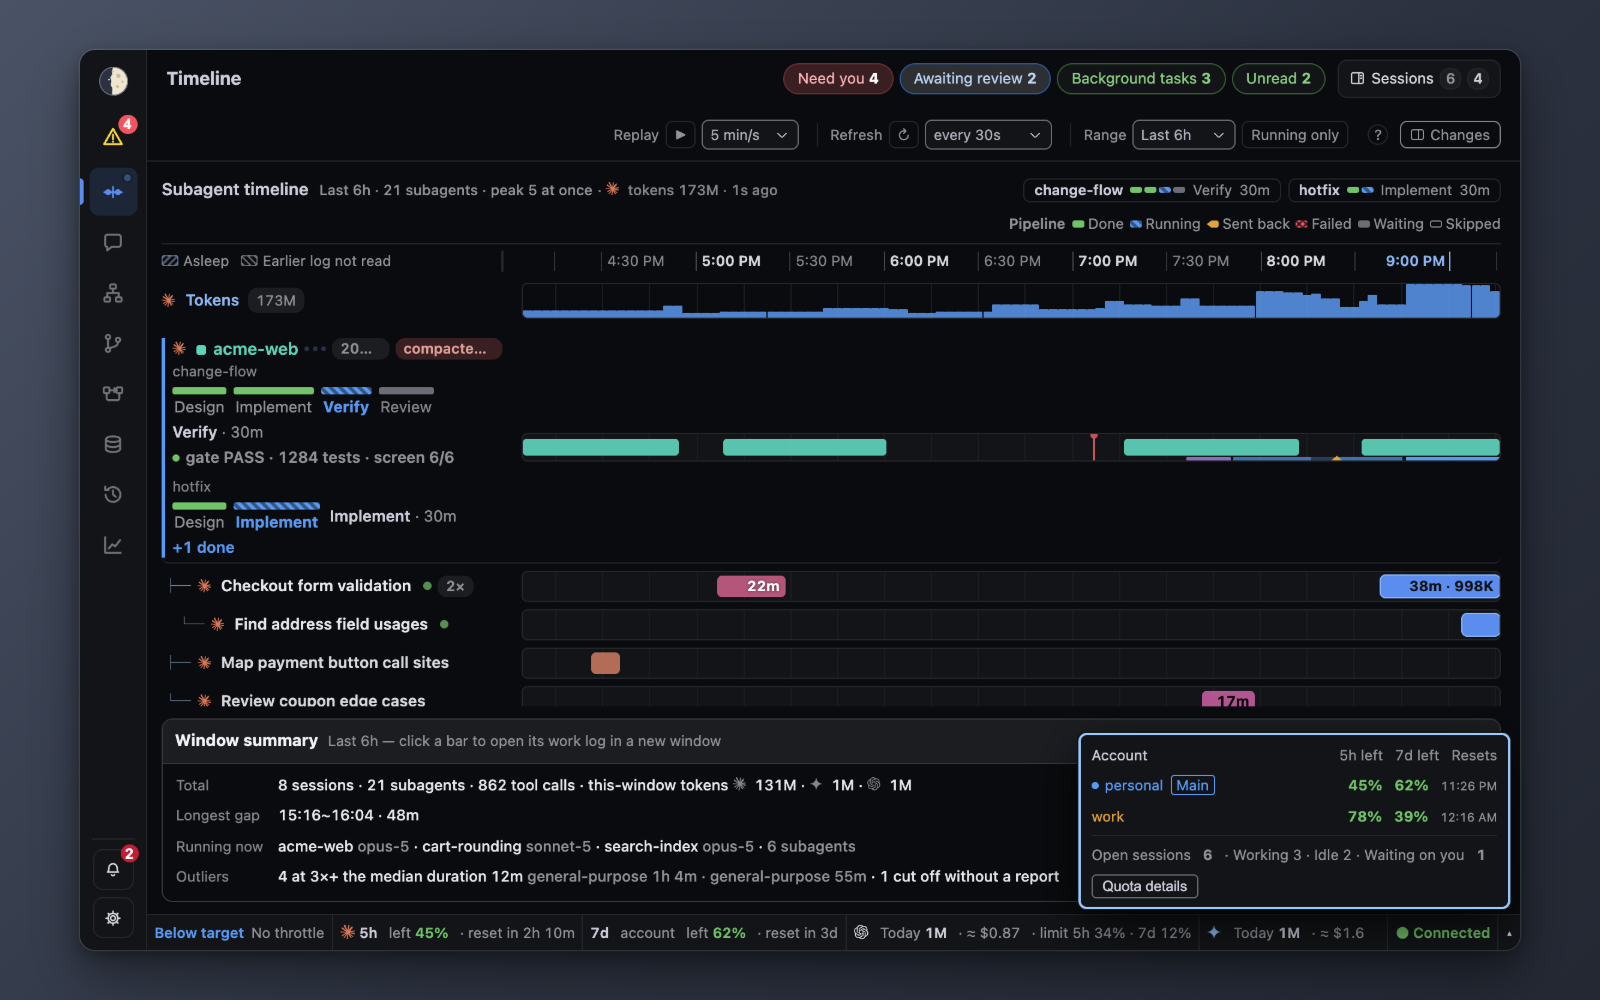
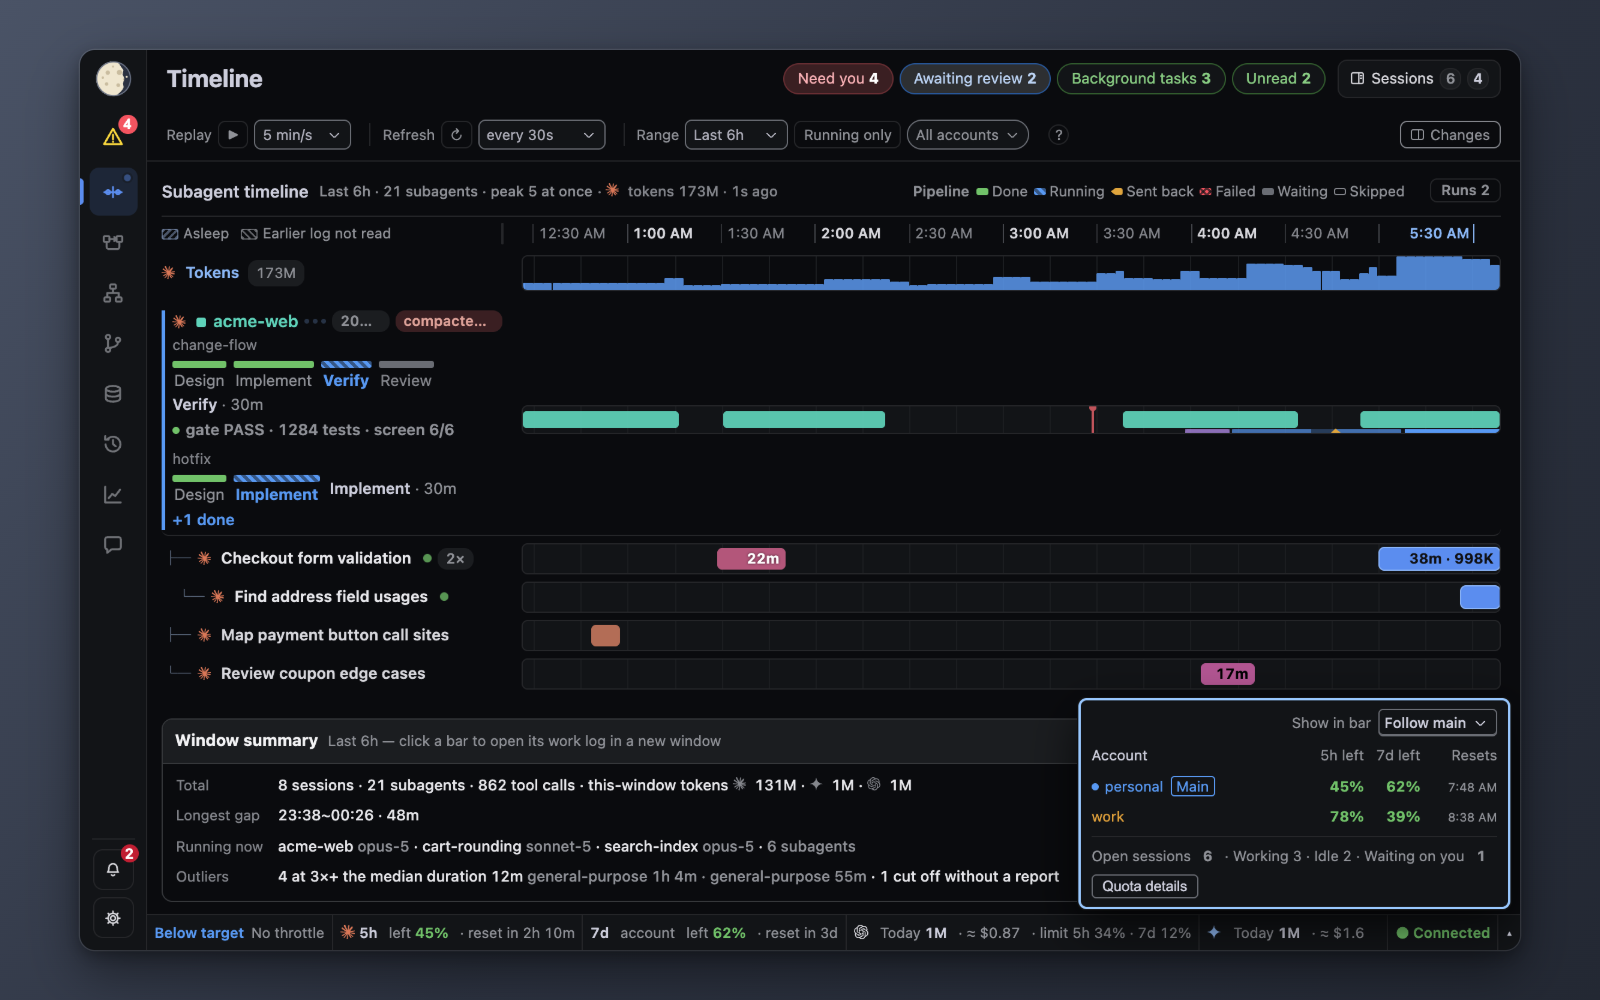
Change default tab order, fix CI docs test, refresh screenshots
- Stock tab order (MP_TABS) is now Timeline, Pipelines, Structure,
  Branches, Tokens, History, Insights, Chat. A saved mbTabs order
  still wins; an order equal to the stock one is never stored.
- AGENTS.md: drop the Hangul example that failed
  test_no_hangul_docs on every CI job.
- readme_shots.mjs: wait for the Pipelines tab (rendered only after
  the first /api/state) before clicking it.
- docs/images: regenerated with the new tab order.

Done when:
R1: default tab row follows the requested order — PASS (demo screenshots, test_mypref_js)
R2: CI gates green — PASS locally (py3.9 compile, node --check, 4093 tests)
R3: README/GUIDE screenshots show the new order — PASS (14 images regenerated)
Not doing: migrating a user's saved custom order

Claude-Session: https://claude.ai/code/session_01MxebWeSyRGi1H6Uy4AA5wg

diff --git a/web/js/90b-mypref.js b/web/js/90b-mypref.js
@@ -1,6 +1,6 @@
 // «Preferences» settings category (90-settings.js cfgPaneMe): screen prefs in UIS, server prefs via /api/prefs.
 // ⚠Empty storage must reproduce the stock screen byte for byte: every normaliser returns the built-in default for missing/bad input.
-const MP_TABS = ['time', 'chat', 'struct', 'br', 'pipe', 'token', 'hist', 'retro'];   // stock tab order (92-mainview-tabs.js buildMv)
+const MP_TABS = ['time', 'pipe', 'struct', 'br', 'token', 'hist', 'retro', 'chat'];   // stock tab order (92-mainview-tabs.js buildMv); a saved mbTabs order still wins
 function mpJson(k){ try{ return JSON.parse(UIS.getItem(k) || 'null'); }catch(e){ return null; } }
 function mpPut(k, v){ try{ if(v == null) UIS.removeItem(k); else UIS.setItem(k, typeof v === 'string' ? v : JSON.stringify(v)); return true; }catch(e){ return false; } }
 // mbStartView: 'last' (default = reopen the last tab) or one tab key.

diff --git a/web/js/92-mainview-tabs.js b/web/js/92-mainview-tabs.js
@@ -52,7 +52,7 @@ function buildMv(){
   // ★The «Failures» tab was removed — failures are bell alerts now.
   // ⚠The rebuild drops focus to <body>; remember it so a keyboard tab switch keeps focus (★ 2026-09-27 interaction audit).
   const hadF = el.contains(document.activeElement);
-  // «Tokens» sits after «Branches» (stock order = MP_TABS).
+  // Stock order = MP_TABS (90b-mypref.js).
   if(!setHtml(el, '<div class=mvg role=tablist aria-orientation=vertical aria-label="'+esc(T('Views'))+'">'
     // ⚠Feature tabs stay hidden until /api/state says the feature is on (a default-off tab would 404 if clicked before the first poll).
     +tp.order.filter(k => k === mainView || (!tp.hide.includes(k) && (!TAB_FEAT[k] || (STATE_IN && FEATS[TAB_FEAT[k]] !== false)))).map(k => tab(k, mvLab(k))).join('')

diff --git a/tests/test_mypref_js.py b/tests/test_mypref_js.py
@@ -38,7 +38,7 @@ R.tabs1 = X.mpTabs();
 c.UIS.setItem('mbTabs', '{broken');
 R.tabs2 = X.mpTabs();
 R.hideTime = X.mpOrderAct(X.mpOrder(null, X.MP_TABS, 'time'), X.MP_TABS, 'time', 'time', 'hide');
-R.up = X.mpOrderAct(X.mpOrder(null, X.MP_TABS, 'time'), X.MP_TABS, 'time', 'chat', 'up');
+R.up = X.mpOrderAct(X.mpOrder(null, X.MP_TABS, 'time'), X.MP_TABS, 'time', 'pipe', 'up');
 R.upTop = X.mpOrderAct(X.mpOrder(null, X.MP_TABS, 'time'), X.MP_TABS, 'time', 'time', 'up');
 R.allHidden = X.mpOrder({hide: X.MP_TABS}, X.MP_TABS, null);
 R.stock = [X.mpStock(X.mpOrder(null, X.MP_TABS, 'time'), X.MP_TABS), X.mpStock(R.up, X.MP_TABS)];
@@ -107,7 +107,7 @@ A.mpma(''); R.maClr = c.UIS.getItem('mbMainAcct'); R.maRd = c.RD;
 R.omRow = vm.runInContext('mpMainAcctRow()', c); R.omAct = 'mpom' in A;
 """
 
-TABS = ['time', 'chat', 'struct', 'br', 'pipe', 'token', 'hist', 'retro']
+TABS = ['time', 'pipe', 'struct', 'br', 'token', 'hist', 'retro', 'chat']
 
 
 @unittest.skipUnless(shutil.which("node"), "node not installed")
@@ -128,7 +128,7 @@ class MyPref(unittest.TestCase):
 
     def test_tabs_normalise(self):
         self.assertEqual(self.R["tabs0"], {"order": TABS, "hide": []})
-        self.assertEqual(self.R["tabs1"]["order"], ["retro", "chat", "time", "struct", "br", "pipe", "token", "hist"])
+        self.assertEqual(self.R["tabs1"]["order"], ["retro", "chat", "time", "pipe", "struct", "br", "token", "hist"])
         self.assertEqual(self.R["tabs1"]["hide"], ["chat"])     # 'time' dropped, unknown/dupes dropped
         self.assertEqual(self.R["tabs2"], {"order": TABS, "hide": []})
 
@@ -136,7 +136,7 @@ class MyPref(unittest.TestCase):
         self.assertEqual(self.R["hideTime"]["hide"], [])
 
     def test_order_move_and_stock(self):
-        self.assertEqual(self.R["up"]["order"], ["chat", "time"] + TABS[2:])
+        self.assertEqual(self.R["up"]["order"], ["pipe", "time"] + TABS[2:])
         self.assertEqual(self.R["upTop"]["order"], TABS)
         self.assertEqual(self.R["allHidden"]["hide"], [])
         self.assertEqual(self.R["stock"], [True, False])

diff --git a/AGENTS.md b/AGENTS.md
@@ -89,7 +89,7 @@ Write the technical reason only. When editing a file, delete any such comment yo
 **New comments are written in English.** The goal is to publish as open source for others to fork.
 Comments hold no Hangul at all (`tests/test_no_hangul_comments*.py`); quote a UI label by its English text.
 - **UI strings are English-source**: code literals are English, Korean lives in `I18N.ko` (`web/js/06-i18n-*.js`), `T(s, ctx)` shows the source in English and the dictionary entry in Korean. `scripts/i18n_check.mjs` (in `--fast`) fails on a Korean UI literal or a T() literal without a ko entry. ⚠Never pass user data through `T()`.
-- **Language by audience**: English for code comments, AI-read files (skills · agents · pipeline `task`/`rules`/`use` · workflows · hook messages to the model) dev docs (`docs/dev/*`) and **commit messages** (subject and body hold no Hangul — quote a UI label by its English source, e.g. «Workflow», never «워크플로»). Korean only in the `I18N.ko` dictionaries, pipeline stage titles (shown on screen) and the `.ko.md` user docs (README/GUIDE keep an English original).
+- **Language by audience**: English for code comments, AI-read files (skills · agents · pipeline `task`/`rules`/`use` · workflows · hook messages to the model) dev docs (`docs/dev/*`) and **commit messages** (subject and body hold no Hangul — quote a UI label by its English source, e.g. «Workflow», never its Korean translation). Korean only in the `I18N.ko` dictionaries, pipeline stage titles (shown on screen) and the `.ko.md` user docs (README/GUIDE keep an English original).
 - ⚠Evidence (`★`) and prohibitions (`⚠`) must **not be shortened** even in English — shorten the prose, not the evidence.
 - The symbols (`★` · `⚠` · `⇒`) are used as-is in any language.
 

diff --git a/CHANGELOG.md b/CHANGELOG.md
@@ -5,6 +5,15 @@ The format is based on [Keep a Changelog](https://keepachangelog.com/en/1.1.0/).
 
 ## [Unreleased]
 
+### Changed
+
+- Default tab order is now Timeline, Pipelines, Structure, Branches, Tokens, History, Insights, Chat. A saved custom order still wins.
+
+### Fixed
+
+- CI: `AGENTS.md` no longer trips the no-Hangul docs test.
+- `scripts/readme_shots.mjs` waits for the Pipelines tab before clicking it.
+
 ## [0.1.0] - 2026-10-16
 
 ### Added
